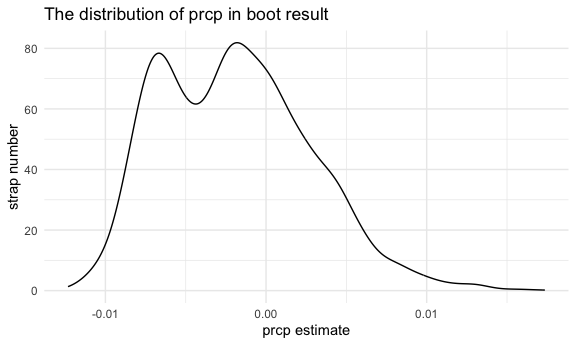
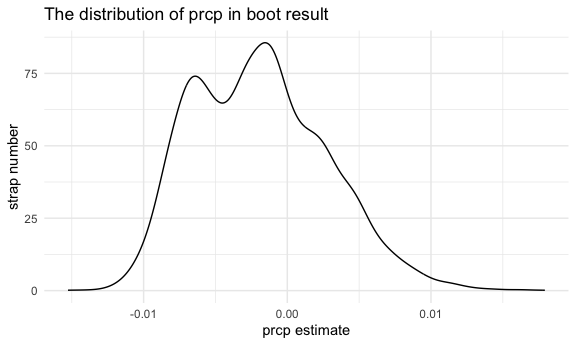
remove variable selection part

diff --git a/p8105_hw6_zl2746.md b/p8105_hw6_zl2746.md
@@ -220,18 +220,18 @@ boot_results2
 ```
 
     ## # A tibble: 5,000 × 6
-    ##    strap_number r_squared `(Intercept)`  tmin      prcp log_beta
-    ##           <int>     <dbl>         <dbl> <dbl>     <dbl>    <dbl>
-    ##  1            1     0.922          8.13 1.02  -0.00616    NaN   
-    ##  2            2     0.915          8.13 1.01   0.00339     -5.67
-    ##  3            3     0.933          7.73 1.04  -0.00592    NaN   
-    ##  4            4     0.932          7.82 1.04  -0.00791    NaN   
-    ##  5            5     0.932          8.03 1.03  -0.0102     NaN   
-    ##  6            6     0.916          7.76 1.02  -0.000261   NaN   
-    ##  7            7     0.907          8.08 1.01   0.00113     -6.77
-    ##  8            8     0.895          8.13 0.992  0.000245    -8.32
-    ##  9            9     0.898          7.93 1.01  -0.00585    NaN   
-    ## 10           10     0.917          8.09 1.01  -0.00397    NaN   
+    ##    strap_number r_squared `(Intercept)`  tmin       prcp log_beta
+    ##           <int>     <dbl>         <dbl> <dbl>      <dbl>    <dbl>
+    ##  1            1     0.907          8.26 1.00  -0.000287    NaN   
+    ##  2            2     0.898          8.56 0.984 -0.00333     NaN   
+    ##  3            3     0.927          7.63 1.04   0.00295      -5.79
+    ##  4            4     0.925          8.05 1.02  -0.00167     NaN   
+    ##  5            5     0.918          7.90 1.01   0.000932     -6.97
+    ##  6            6     0.927          7.86 1.03  -0.00511     NaN   
+    ##  7            7     0.925          7.96 1.02  -0.0000751   NaN   
+    ##  8            8     0.931          8.20 1.01  -0.00505     NaN   
+    ##  9            9     0.922          8.00 1.04  -0.00701     NaN   
+    ## 10           10     0.924          7.92 1.02  -0.00592     NaN   
     ## # ℹ 4,990 more rows
 
 ``` r
@@ -340,7 +340,7 @@ fraction = nrow(valid_log)/5000
 fraction
 ```
 
-    ## [1] 0.3308
+    ## [1] 0.3222
 
 ``` r
 # construct a CI for log(beta1*beta2)
@@ -355,7 +355,7 @@ boot_results2 |>
     ## # A tibble: 1 × 2
     ##   ci_lower ci_upper
     ##      <dbl>    <dbl>
-    ## 1    -9.11    -4.53
+    ## 1    -9.24    -4.59
 
 ``` r
 # construct a CI for r squared
@@ -369,9 +369,9 @@ boot_results2 |>
     ## # A tibble: 1 × 2
     ##   ci_lower ci_upper
     ##      <dbl>    <dbl>
-    ## 1    0.889    0.940
+    ## 1    0.889    0.941
 
-**There is only 0.3308 of dataset can be used for log(beta1 \* beta2).**
+**There is only 0.3222 of dataset can be used for log(beta1 \* beta2).**
 
 ## Problem 3
 
@@ -395,10 +395,6 @@ birthweight <- read_csv("birthweight.csv") |>
     ## ℹ Use `spec()` to retrieve the full column specification for this data.
     ## ℹ Specify the column types or set `show_col_types = FALSE` to quiet this message.
 
-``` r
-# negative wtgain?
-```
-
 Propose a regression model for birthweight. This model may be based on a
 hypothesized structure for the factors that underly birthweight, on a
 data-driven model-building process, or a combination of the two.
@@ -408,8 +404,8 @@ this plot.
 
 ``` r
 # Propose a regression model for birthweight
-model <- lm(bwt ~ ., data = birthweight)
-summary(model)
+model1 <- lm(bwt ~ ., data = birthweight)
+summary(model1)
 ```
 
     ## 
@@ -455,191 +451,6 @@ summary(model)
     ## F-statistic: 524.6 on 21 and 4320 DF,  p-value: < 2.2e-16
 
 ``` r
-# variable selection by backward stepwise
-model1 = step(model, direction = "backward")
-```
-
-    ## Start:  AIC=48717.83
-    ## bwt ~ babysex + bhead + blength + delwt + fincome + frace + gaweeks + 
-    ##     malform + menarche + mheight + momage + mrace + parity + 
-    ##     pnumlbw + pnumsga + ppbmi + ppwt + smoken + wtgain
-    ## 
-    ## 
-    ## Step:  AIC=48717.83
-    ## bwt ~ babysex + bhead + blength + delwt + fincome + frace + gaweeks + 
-    ##     malform + menarche + mheight + momage + mrace + parity + 
-    ##     pnumlbw + pnumsga + ppbmi + ppwt + smoken
-    ## 
-    ## 
-    ## Step:  AIC=48717.83
-    ## bwt ~ babysex + bhead + blength + delwt + fincome + frace + gaweeks + 
-    ##     malform + menarche + mheight + momage + mrace + parity + 
-    ##     pnumlbw + ppbmi + ppwt + smoken
-    ## 
-    ## 
-    ## Step:  AIC=48717.83
-    ## bwt ~ babysex + bhead + blength + delwt + fincome + frace + gaweeks + 
-    ##     malform + menarche + mheight + momage + mrace + parity + 
-    ##     ppbmi + ppwt + smoken
-    ## 
-    ##            Df Sum of Sq       RSS   AIC
-    ## - frace     4    124365 320848704 48712
-    ## - malform   1      1419 320725757 48716
-    ## - ppbmi     1      6346 320730684 48716
-    ## - momage    1     28661 320752999 48716
-    ## - mheight   1     66886 320791224 48717
-    ## - menarche  1    111679 320836018 48717
-    ## - ppwt      1    131132 320855470 48718
-    ## <none>                  320724338 48718
-    ## - fincome   1    193454 320917792 48718
-    ## - parity    1    413584 321137922 48721
-    ## - mrace     3    868321 321592659 48724
-    ## - babysex   1    853796 321578134 48727
-    ## - gaweeks   1   4611823 325336161 48778
-    ## - smoken    1   5076393 325800732 48784
-    ## - delwt     1   8008891 328733230 48823
-    ## - blength   1 102050296 422774634 49915
-    ## - bhead     1 106535716 427260054 49961
-    ## 
-    ## Step:  AIC=48711.51
-    ## bwt ~ babysex + bhead + blength + delwt + fincome + gaweeks + 
-    ##     malform + menarche + mheight + momage + mrace + parity + 
-    ##     ppbmi + ppwt + smoken
-    ## 
-    ##            Df Sum of Sq       RSS   AIC
-    ## - malform   1      1447 320850151 48710
-    ## - ppbmi     1      6975 320855679 48710
-    ## - momage    1     28379 320877083 48710
-    ## - mheight   1     69502 320918206 48710
-    ## - menarche  1    115708 320964411 48711
-    ## - ppwt      1    133961 320982665 48711
-    ## <none>                  320848704 48712
-    ## - fincome   1    194405 321043108 48712
-    ## - parity    1    414687 321263390 48715
-    ## - babysex   1    852133 321700837 48721
-    ## - gaweeks   1   4625208 325473911 48772
-    ## - smoken    1   5036389 325885093 48777
-    ## - delwt     1   8013099 328861802 48817
-    ## - mrace     3  13540415 334389119 48885
-    ## - blength   1 101995688 422844392 49908
-    ## - bhead     1 106662962 427511666 49956
-    ## 
-    ## Step:  AIC=48709.53
-    ## bwt ~ babysex + bhead + blength + delwt + fincome + gaweeks + 
-    ##     menarche + mheight + momage + mrace + parity + ppbmi + ppwt + 
-    ##     smoken
-    ## 
-    ##            Df Sum of Sq       RSS   AIC
-    ## - ppbmi     1      6928 320857079 48708
-    ## - momage    1     28660 320878811 48708
-    ## - mheight   1     69320 320919470 48708
-    ## - menarche  1    116027 320966177 48709
-    ## - ppwt      1    133894 320984044 48709
-    ## <none>                  320850151 48710
-    ## - fincome   1    193784 321043934 48710
-    ## - parity    1    414482 321264633 48713
-    ## - babysex   1    851279 321701430 48719
-    ## - gaweeks   1   4624003 325474154 48770
-    ## - smoken    1   5035195 325885346 48775
-    ## - delwt     1   8029079 328879230 48815
-    ## - mrace     3  13553320 334403471 48883
-    ## - blength   1 102009225 422859375 49906
-    ## - bhead     1 106675331 427525481 49954
-    ## 
-    ## Step:  AIC=48707.63
-    ## bwt ~ babysex + bhead + blength + delwt + fincome + gaweeks + 
-    ##     menarche + mheight + momage + mrace + parity + ppwt + smoken
-    ## 
-    ##            Df Sum of Sq       RSS   AIC
-    ## - momage    1     29211 320886290 48706
-    ## - menarche  1    117635 320974714 48707
-    ## <none>                  320857079 48708
-    ## - fincome   1    195199 321052278 48708
-    ## - parity    1    412984 321270064 48711
-    ## - babysex   1    850020 321707099 48717
-    ## - mheight   1   1078673 321935752 48720
-    ## - ppwt      1   2934023 323791103 48745
-    ## - gaweeks   1   4621504 325478583 48768
-    ## - smoken    1   5039368 325896447 48773
-    ## - delwt     1   8024939 328882018 48813
-    ## - mrace     3  13551444 334408523 48881
-    ## - blength   1 102018559 422875638 49904
-    ## - bhead     1 106821342 427678421 49953
-    ## 
-    ## Step:  AIC=48706.02
-    ## bwt ~ babysex + bhead + blength + delwt + fincome + gaweeks + 
-    ##     menarche + mheight + mrace + parity + ppwt + smoken
-    ## 
-    ##            Df Sum of Sq       RSS   AIC
-    ## - menarche  1    100121 320986412 48705
-    ## <none>                  320886290 48706
-    ## - fincome   1    240800 321127090 48707
-    ## - parity    1    431433 321317724 48710
-    ## - babysex   1    841278 321727568 48715
-    ## - mheight   1   1076739 321963029 48719
-    ## - ppwt      1   2913653 323799943 48743
-    ## - gaweeks   1   4676469 325562760 48767
-    ## - smoken    1   5045104 325931394 48772
-    ## - delwt     1   8000672 328886962 48811
-    ## - mrace     3  14667730 335554021 48894
-    ## - blength   1 101990556 422876847 49902
-    ## - bhead     1 106864308 427750598 49952
-    ## 
-    ## Step:  AIC=48705.38
-    ## bwt ~ babysex + bhead + blength + delwt + fincome + gaweeks + 
-    ##     mheight + mrace + parity + ppwt + smoken
-    ## 
-    ##           Df Sum of Sq       RSS   AIC
-    ## <none>                 320986412 48705
-    ## - fincome  1    245637 321232048 48707
-    ## - parity   1    422770 321409181 48709
-    ## - babysex  1    846134 321832545 48715
-    ## - mheight  1   1012240 321998651 48717
-    ## - ppwt     1   2907049 323893461 48743
-    ## - gaweeks  1   4662501 325648912 48766
-    ## - smoken   1   5073849 326060260 48771
-    ## - delwt    1   8137459 329123871 48812
-    ## - mrace    3  14683609 335670021 48894
-    ## - blength  1 102191779 423178191 49903
-    ## - bhead    1 106779754 427766166 49950
-
-``` r
-summary(model1)
-```
-
-    ## 
-    ## Call:
-    ## lm(formula = bwt ~ babysex + bhead + blength + delwt + fincome + 
-    ##     gaweeks + mheight + mrace + parity + ppwt + smoken, data = birthweight)
-    ## 
-    ## Residuals:
-    ##      Min       1Q   Median       3Q      Max 
-    ## -1097.18  -185.52    -3.39   174.14  2353.44 
-    ## 
-    ## Coefficients:
-    ##                     Estimate Std. Error t value Pr(>|t|)    
-    ## (Intercept)       -6145.1507   141.9496 -43.291  < 2e-16 ***
-    ## babysexmale         -28.5580     8.4549  -3.378 0.000737 ***
-    ## bhead               130.7770     3.4466  37.944  < 2e-16 ***
-    ## blength              74.9471     2.0190  37.120  < 2e-16 ***
-    ## delwt                 4.1067     0.3921  10.475  < 2e-16 ***
-    ## fincome               0.3180     0.1747   1.820 0.068844 .  
-    ## gaweeks              11.5925     1.4621   7.929 2.79e-15 ***
-    ## mheight               6.5940     1.7849   3.694 0.000223 ***
-    ## mraceBlack          -63.9057    42.3663  -1.508 0.131523    
-    ## mracePuerto Rican   -25.7914    45.3502  -0.569 0.569578    
-    ## mraceWhite           74.8868    42.3146   1.770 0.076837 .  
-    ## parity               96.3047    40.3362   2.388 0.017004 *  
-    ## ppwt                 -2.6756     0.4274  -6.261 4.20e-10 ***
-    ## smoken               -4.8434     0.5856  -8.271  < 2e-16 ***
-    ## ---
-    ## Signif. codes:  0 '***' 0.001 '**' 0.01 '*' 0.05 '.' 0.1 ' ' 1
-    ## 
-    ## Residual standard error: 272.3 on 4328 degrees of freedom
-    ## Multiple R-squared:  0.7181, Adjusted R-squared:  0.7173 
-    ## F-statistic: 848.1 on 13 and 4328 DF,  p-value: < 2.2e-16
-
-``` r
 birthweight_df <- birthweight |> 
   add_predictions(model1) |> 
   add_residuals(model1)
@@ -653,6 +464,11 @@ ggplot(birthweight_df, aes(x = pred, y = resid)) +
 ```
 
 <img src="p8105_hw6_zl2746_files/figure-gfm/q3 model1-1.png" width="90%" />
+
+**There are several variables are insignificant such as fincome, frace,
+malformpresent, menarche, mheight, and mrace since the p value is
+greater than 0.05. For variable pnumlbw, pnumsga, and wtgain produces
+NA, which implies the independence relationship with birthweitght.**
 
 - One using length at birth and gestational age as predictors (main
   effects only)
@@ -787,7 +603,7 @@ rmse_test3 = rmse(model3, test)
 rmse_train1; rmse_train2; rmse_train3;
 ```
 
-    ## [1] 227.4741
+    ## [1] 226.023
 
     ## [1] 298.5854
 
@@ -797,7 +613,7 @@ rmse_train1; rmse_train2; rmse_train3;
 rmse_test1; rmse_test2; rmse_test3
 ```
 
-    ## [1] 272.6578
+    ## [1] 272.5677
 
     ## [1] 333.716
 
